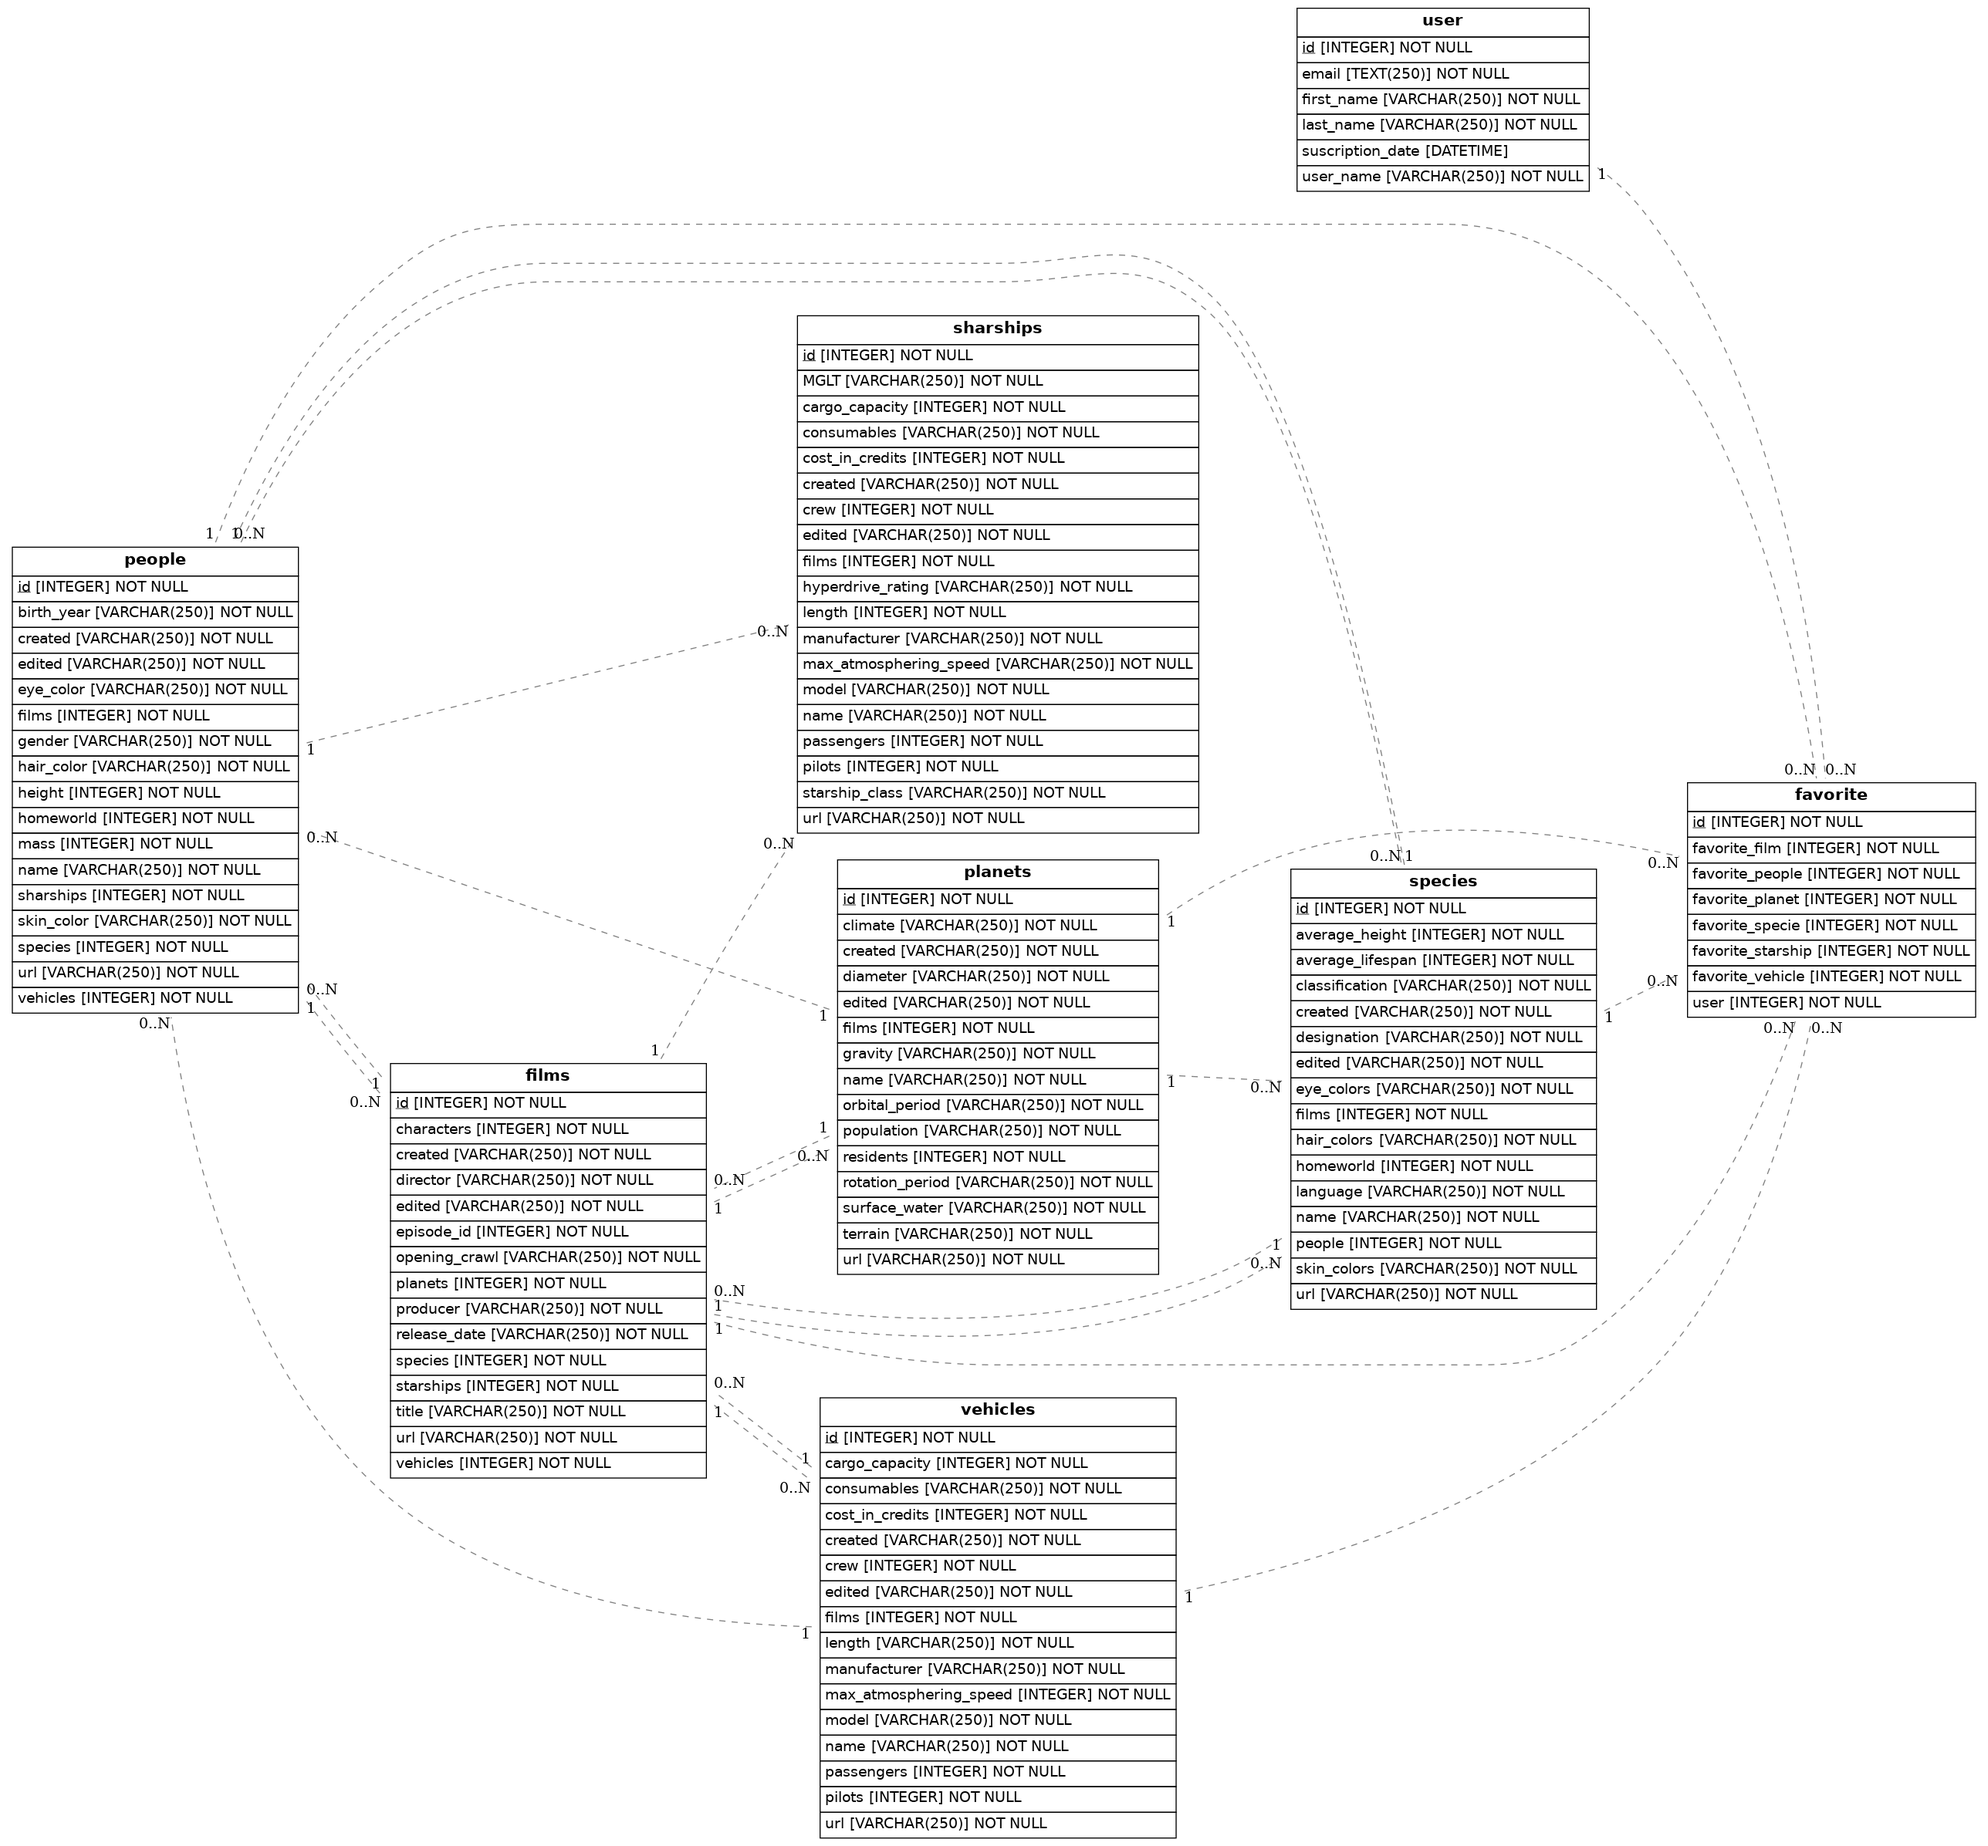
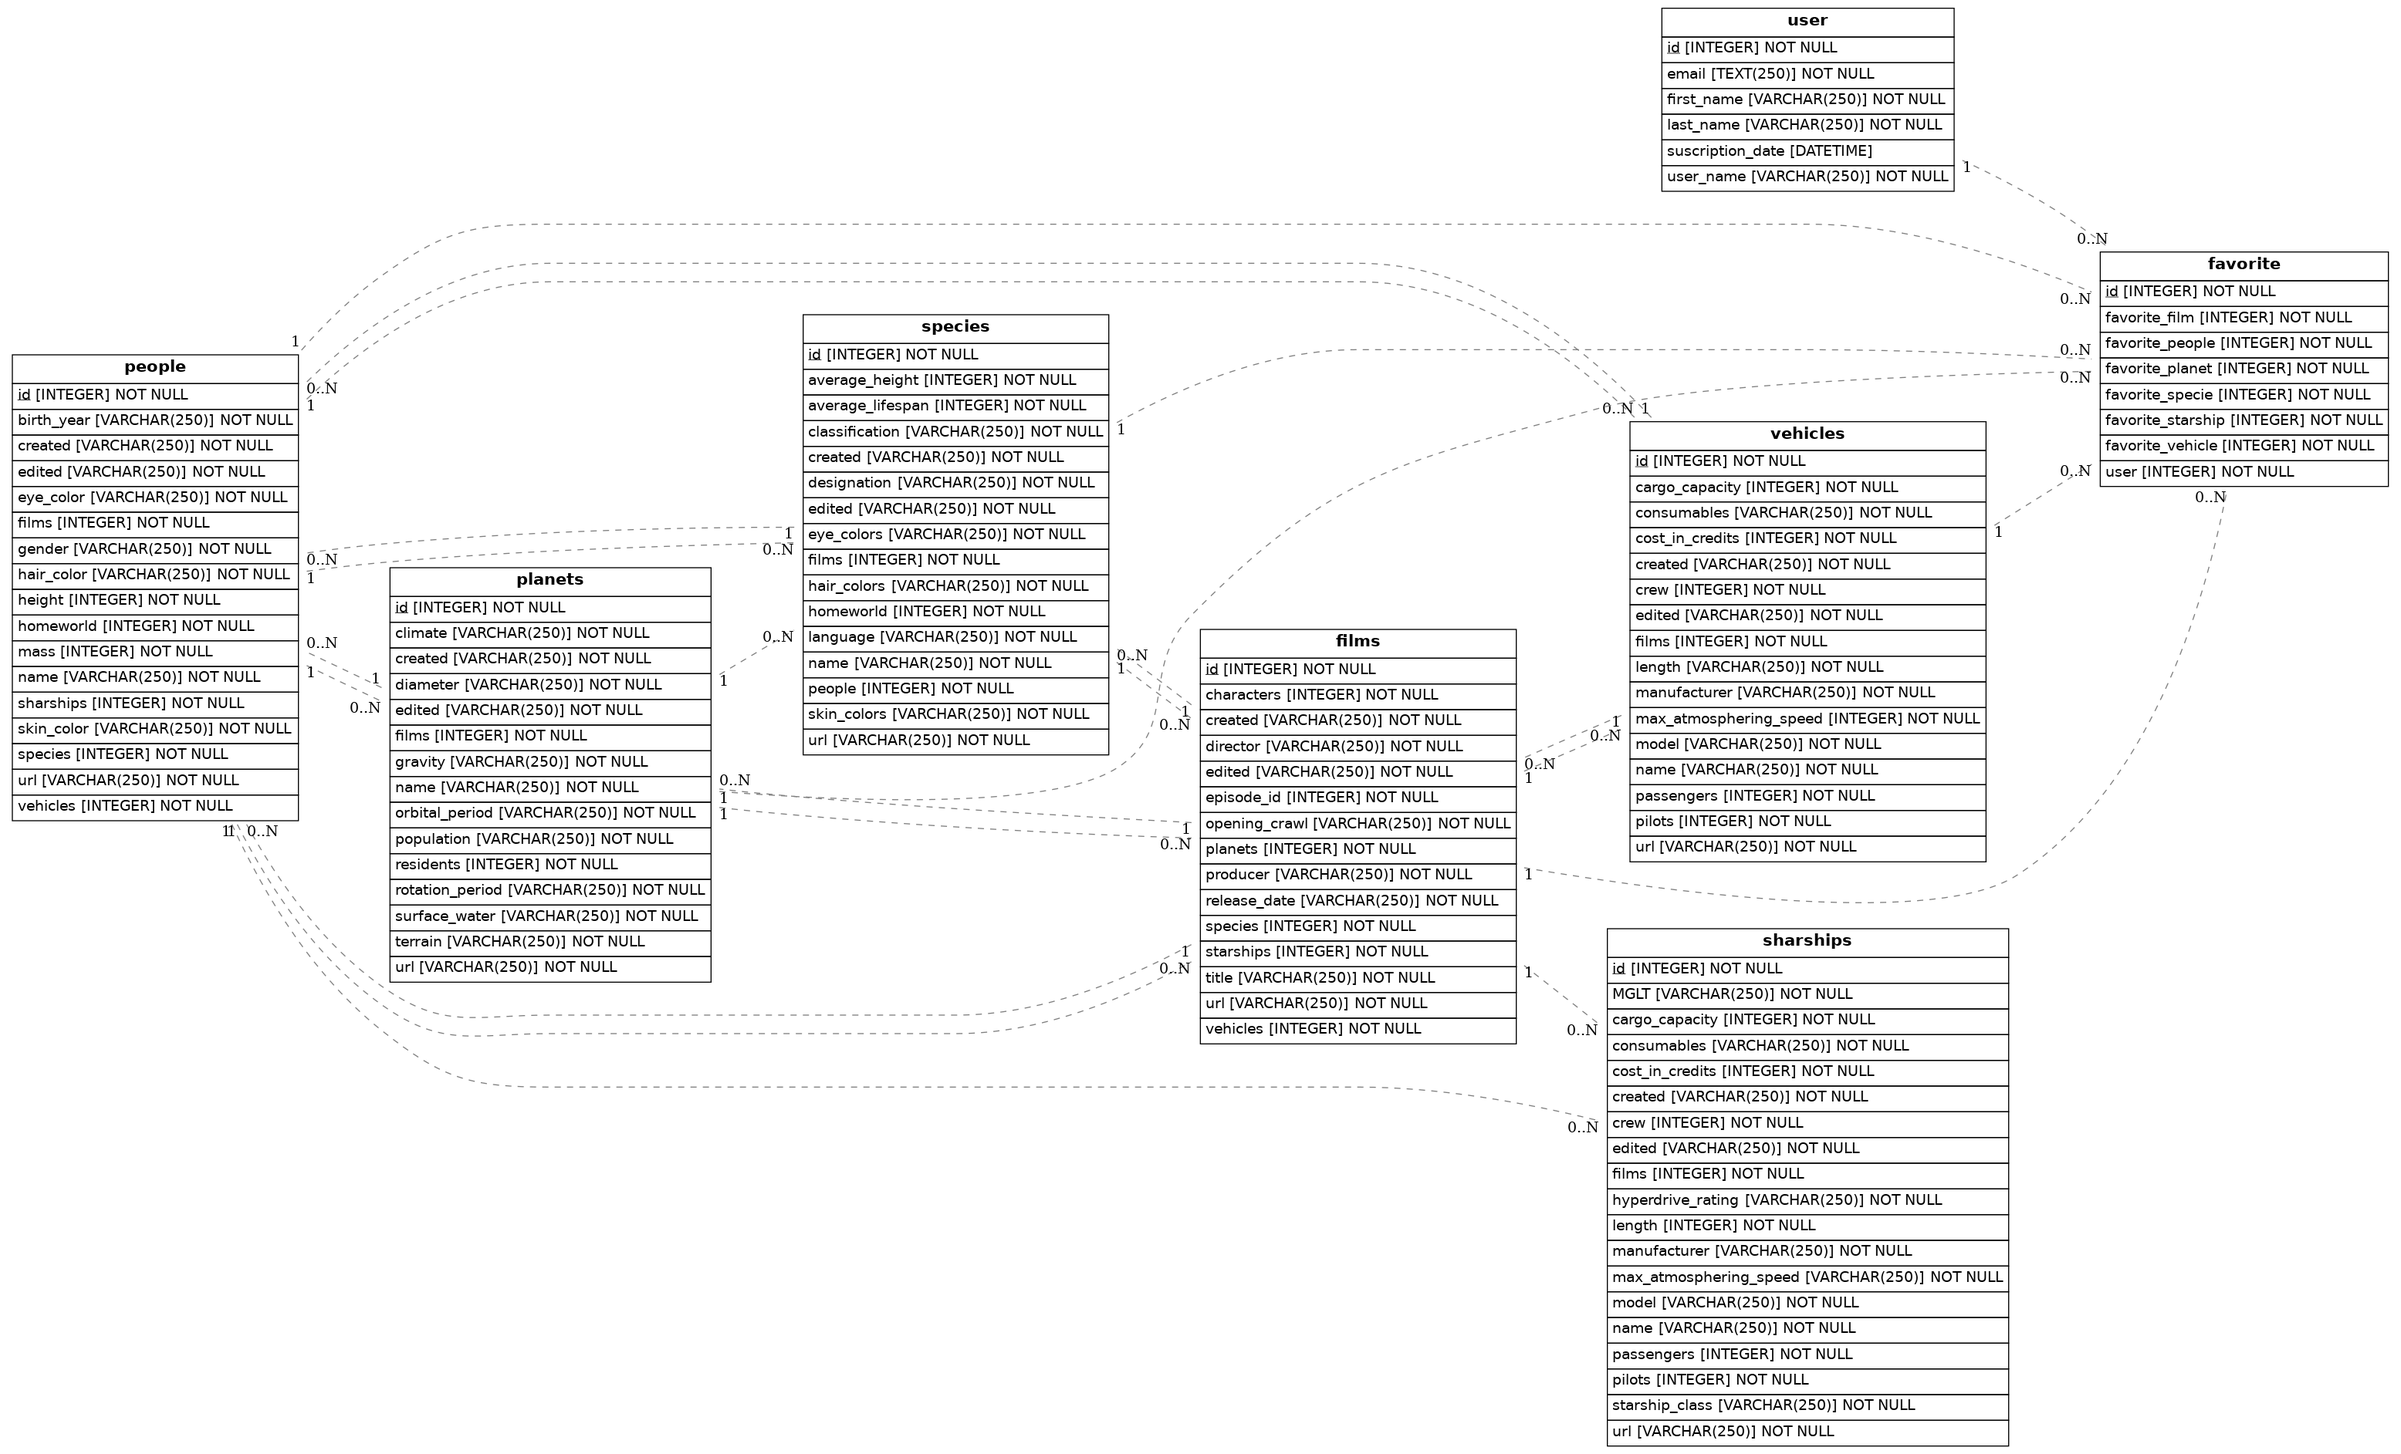
Proyecto finalizado con relaciones requeridas para le ejercicio y un poco más

diff --git a/src/models.py b/src/models.py
@@ -37,8 +37,8 @@ class People(Base):
     sharships = Column(Integer, ForeignKey('starships.id'), nullable= False)
     url = Column(String(250), nullable= False)
     vehicles = Column(Integer, ForeignKey('vehicles.id'), nullable= False)
-    planets_relation = relationship('Planets', back_populates='residents')
-    vehicles_relation = relationship('Vehicles', back_populates='pilots')
+    planets_relation = relationship('Planets', back_populates='people')
+    vehicles_relation = relationship('Vehicles', back_populates='people')
     starships_relation = relationship('Starships', back_populates='people')
     films_relationship = relationship('Films', back_populates='people')
     species_relationship = relationship('Species', back_populates='people')
@@ -56,7 +56,7 @@ class Planets(Base):
     name = Column(String(250), nullable= False)
     orbital_period = Column(String(250), nullable= False)
     population = Column(String(250), nullable= False)
-    residents = Column(Integer, ForeignKey('residents.id'), nullable=False)
+    residents = Column(Integer, ForeignKey('people.id'), nullable=False)
     rotation_period = Column(String(250), nullable= False)
     surface_water = Column(String(250), nullable= False)
     terrain = Column(String(250), nullable= False)
@@ -81,7 +81,7 @@ class Vehicles(Base):
     model = Column(String(250), nullable= False)
     name = Column(String(250), nullable= False)
     passengers = Column(Integer, nullable= False)
-    pilots = Column(Integer, ForeignKey('pilots.id'), nullable=False)
+    pilots = Column(Integer, ForeignKey('people.id'), nullable=False)
     films = Column(Integer, ForeignKey('films.id'), nullable=False)
     url = Column(String(250), nullable= False)
     people_relationship = relationship('People', back_populates='vehicles')
